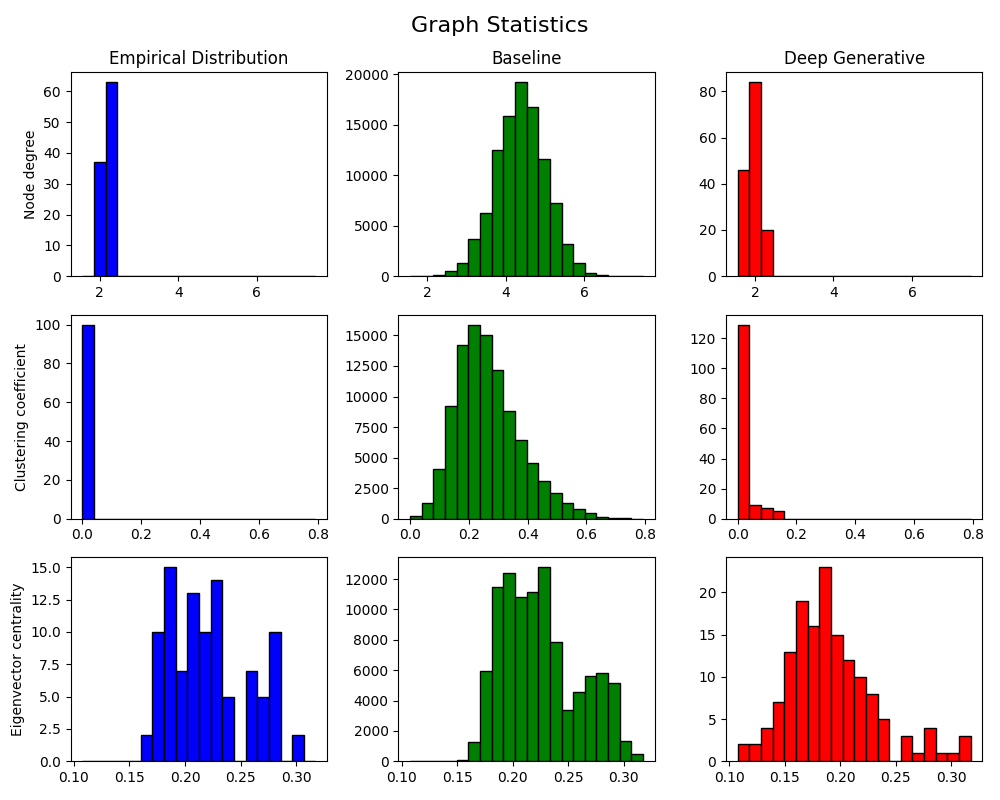
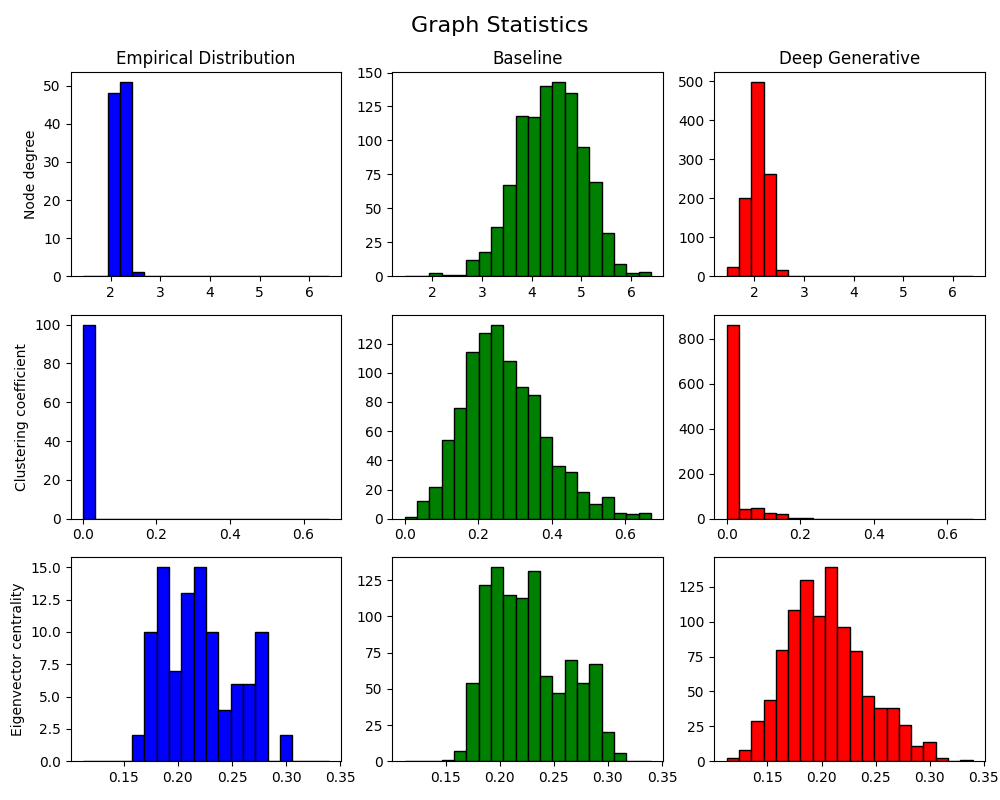
final training

diff --git a/GVAE.py b/GVAE.py
@@ -6,6 +6,10 @@ from torch_geometric.data import Data
 import networkx as nx
 from torch.distributions import Normal
 from torch_geometric.utils.convert import to_networkx
+from tqdm import tqdm
+import os
+
+os.system('cls' if os.name == 'nt' else 'clear')
 
 class GraphVAE(nn.Module):
     def __init__(self, max_num_nodes, node_feature_dim=7, latent_dim=16):
@@ -112,7 +116,8 @@ def train_vae(model, train_dataset, epochs=100, batch_size=32, lr=0.001):
     dataset = torch.utils.data.TensorDataset(adj_matrices)
     loader = torch.utils.data.DataLoader(dataset, batch_size=batch_size, shuffle=True)
     
-    for epoch in range(epochs):
+    pbar = tqdm(range(epochs), desc="Training")
+    for epoch in pbar:
         total_loss = 0
         for batch in loader:
             adj = batch[0]
@@ -136,28 +141,113 @@ def train_vae(model, train_dataset, epochs=100, batch_size=32, lr=0.001):
             
             total_loss += loss.item()
         
-        print(f"Epoch {epoch+1}/{epochs}, Loss: {total_loss/len(train_dataset)}")
-    
-    return model
+        avg_loss = total_loss / len(train_dataset)
+        pbar.set_postfix(loss=f"{avg_loss:.4f}")
+
+    return model, avg_loss
 
 if __name__ == "__main__":
-    from baseline import train_dataset, baseline_samples
+    from baseline import baseline, calc_novel_and_uniques_samples
     import matplotlib.pyplot as plt
-    
+    import torch
+    from torch.utils.data import random_split
+    from torch_geometric.datasets import TUDataset
+    from torch_geometric.loader import DataLoader
+    from torch_geometric.utils.convert import to_networkx
+    import matplotlib.pyplot as plt
+    import networkx as nx
+    from networkx import weisfeiler_lehman_graph_hash
+    import random
+    import create_graph_statistics as gs
+    import numpy as np
+    import itertools
+
+
+    device = 'cpu'
+    dataset = TUDataset(root='./data/', name='MUTAG').to(device)
+    rng = torch.Generator().manual_seed(0)
+    train_dataset, validation_dataset, test_dataset = random_split(dataset, (100, 44, 44), generator=rng)
+
     # Determine maximum number of nodes in the dataset
     max_num_nodes = max([data.num_nodes for data in train_dataset])
     node_feature_dim = train_dataset[0].x.shape[1] if hasattr(train_dataset[0], 'x') else 1
     
     print(f"Training VAE with max_num_nodes={max_num_nodes}, node_feature_dim={node_feature_dim}")
     
-    # Initialize and train VAE
-    vae = GraphVAE(max_num_nodes=max_num_nodes, node_feature_dim=node_feature_dim)
-    vae = train_vae(vae, train_dataset, epochs=150)
-
-    # Generate samples
-    generated_graphs = vae.sample(num_samples=150)
     
-    #TODO: Remove nodes with 0 edges
+    epochs=300
+    lr = 0.005
+    batch_size = 16
+    lat_dim = 8
+
+    # Initialize and train VAE
+    vae = GraphVAE(max_num_nodes=max_num_nodes, node_feature_dim=node_feature_dim, latent_dim=lat_dim)
+
+    vae, _ = train_vae(vae, train_dataset, epochs=epochs, batch_size=batch_size, lr=lr)
+    """
+
+    # Define search space
+    param_grid = {
+        'epochs': [100, 200, 300],
+        'lr': [0.005, 0.001, 0.0005],
+        'batch_size': [16, 32, 64],
+        'latent_dim': [8, 16, 32],
+    }
+
+    # Generate all combinations
+    all_combinations = list(itertools.product(
+        param_grid['epochs'],
+        param_grid['lr'],
+        param_grid['batch_size'],
+        param_grid['latent_dim']
+    ))
+
+    results = []
+
+    for i, (epochs, lr, batch_size, lat_dim) in enumerate(all_combinations):
+        print(f"\nTrial {i+1}/{len(all_combinations)} - epochs={epochs}, lr={lr}, batch_size={batch_size}, latent_dim={lat_dim}")
+        
+        # Initialize model
+        vae = GraphVAE(
+            max_num_nodes=max_num_nodes,
+            node_feature_dim=node_feature_dim,
+            latent_dim=lat_dim
+        )
+        
+        # Train and get loss
+        vae, avg_loss = train_vae(vae, train_dataset, epochs=epochs, batch_size=batch_size, lr=lr)
+        
+        # Log results
+        results.append({
+            'trial': i+1,
+            'epochs': epochs,
+            'lr': lr,
+            'batch_size': batch_size,
+            'latent_dim': lat_dim,
+            'avg_loss': avg_loss
+        })
+
+    # Find and print best configuration
+    best = min(results, key=lambda x: x['avg_loss'])
+    print("\nBest configuration:")
+    for key, value in best.items():
+        print(f"{key}: {value}")
+    """
+    # Generate samples
+    generated_graphs = vae.sample(num_samples=1000)
+    baseline_samples = baseline(train_dataset).sample_batch(1000)
+
+    print("________Number of Sampled graphs:______________ ")
+    print("Baseline: ", len(baseline_samples))
+    print("VAE     : ", len(generated_graphs))
+
+
+    print("________Compute Novel and Unique:______________ ")
+    print("\n Baseline:")
+    calc_novel_and_uniques_samples(train_dataset, baseline_samples)
+    print("\n VAE:")
+    calc_novel_and_uniques_samples(train_dataset, generated_graphs)
+
     isolated_graphs = []
     
     for i in generated_graphs:
@@ -166,34 +256,12 @@ if __name__ == "__main__":
     # Evaluate samples using the same metrics as baseline
     # from baseline import calc_novel_and_uniques_samples, calc_node_degrees, calc_clustering, calc_eigenvector_centrality, plot_histogram
     import create_graph_statistics as gs
-    # train_dataset_nx = [to_networkx(data, to_undirected=True) for data in train_dataset]
-    
-    # print(generated_graphs)
-    # print(train_dataset_nx)
-    # exit()
-
-    print("\nEvaluating VAE-generated samples:")
     # gs.calc_novel_and_uniques_samples(train_dataset, generated_graphs)
+    print("________Creating Statistics Graph______________ ")
+
     gs.create_histogram_grid(gs.convert_to_nx(train_dataset),
                              baseline_samples,
                              generated_graphs)
 
-
-    plots = 3
-    for i in range((min(plots, len(generated_graphs)))):
-        nx.draw(generated_graphs[i], cmap = plt.get_cmap('jet'))
-        plt.savefig(f"graph_{i}.png")
-        plt.close()
-
-    # # Compare distributions
-    # print("\nNode degree distributions:")
-    # node_degrees_vae = gs.calc_node_degrees(generated_graphs)
-    # node_degrees_train = gs.calc_node_degrees(to_networkx(train_dataset_nx))
-    # gs.plot_histogram(node_degrees_vae, title="VAE Generated - Node Degrees", xlabel="Degree", ylabel="Frequency")
-    # gs.plot_histogram(node_degrees_train, title="Training Data - Node Degrees", xlabel="Degree", ylabel="Frequency")
+    print("________Done______________ ")
     
-    # print("\nClustering coefficient distributions:")
-    # clustering_vae = calc_clustering(generated_graphs)
-    # clustering_train = calc_clustering(to_networkx(train_dataset_nx))
-    # plot_histogram(clustering_vae, title="VAE Generated - Clustering", xlabel="Coefficient", ylabel="Frequency")
-    # plot_histogram(clustering_train, title="Training Data - Clustering", xlabel="Coefficient", ylabel="Frequency")

diff --git a/baseline.py b/baseline.py
@@ -15,9 +15,6 @@ device = 'cpu'
 # %% Load the MUTAG dataset
 # Load data
 dataset = TUDataset(root='./data/', name='MUTAG').to(device)
-print(dataset)
-print(type(dataset[2]))
-print(to_networkx(dataset[2],to_undirected=True))
 
 # %% 
 # Split into training and validation
@@ -108,33 +105,22 @@ def calc_novel_and_uniques_samples(train_dataset, baseline_samples):
     unique = len(set(baseline_samples_hash))/len(baseline_samples_hash)
     novel = len([i for i in baseline_samples_hash if i not in train_dataset_hash])/len(baseline_samples_hash)
     novel_and_unique = len(set(baseline_samples_hash) - set(train_dataset_hash))/len(baseline_samples_hash)
-    print("Percentage of unique samples:")
-    print(unique)
-    print("Percentage of novel samples:")
-    print(novel)
-    print("Percentage of novel and unique samples:")
-    print(novel_and_unique)
+    print("Unique samples          :", unique)
+    print("Novel samples           :", novel)
+    print("Novel and unique samples:", novel_and_unique)
     return unique, novel, novel_and_unique
 
 
 
 # %%
 
-train_dataset_nx = convert_to_nx(train_dataset)
-baseline_samples = baseline(train_dataset).sample_batch(100000)
-
-print("Printing: ")
-print(type(baseline_samples))
-print(type(baseline_samples[0]))
-
-print(type(train_dataset_nx))
-print(type(train_dataset_nx[0]))
-
+# train_dataset_nx = convert_to_nx(train_dataset)
+# baseline_samples = baseline(train_dataset).sample_batch(100000)
 
 # %%
-calc_novel_and_uniques_samples(train_dataset, baseline_samples)
+# calc_novel_and_uniques_samples(train_dataset, baseline_samples)
 
 ########## replace input with (train_dataset_nx, baseline_nx, vae_nx) #################
-gs.create_histogram_grid(train_dataset_nx,baseline_samples,train_dataset_nx)
+# gs.create_histogram_grid(train_dataset_nx,baseline_samples,train_dataset_nx)
 
 

diff --git a/create_graph_statistics.py b/create_graph_statistics.py
@@ -75,11 +75,7 @@ def create_histogram(nd_data, cc_data, ec_data,
     bins_cc = max_unique_count(cc_data, cc_base, cc_gen)
     #bins_ec = max_unique_count(ec_data, ec_base, ec_gen)
     bins_ec = 30
-    print(bins_nd)
-    print(bins_cc)
-    print(bins_ec)
-    
-    
+  
     fig, axes = plt.subplots(3, 3, figsize=(10, 8))
     fig.suptitle('Graph Statistics', fontsize=16)
 
@@ -154,6 +150,6 @@ def create_histogram_grid(data, base, gen):
 
 
 
-create_histogram_grid(train_dataset_nx,train_dataset_nx,train_dataset_nx)
+#create_histogram_grid(train_dataset_nx,train_dataset_nx,train_dataset_nx)
 
 
